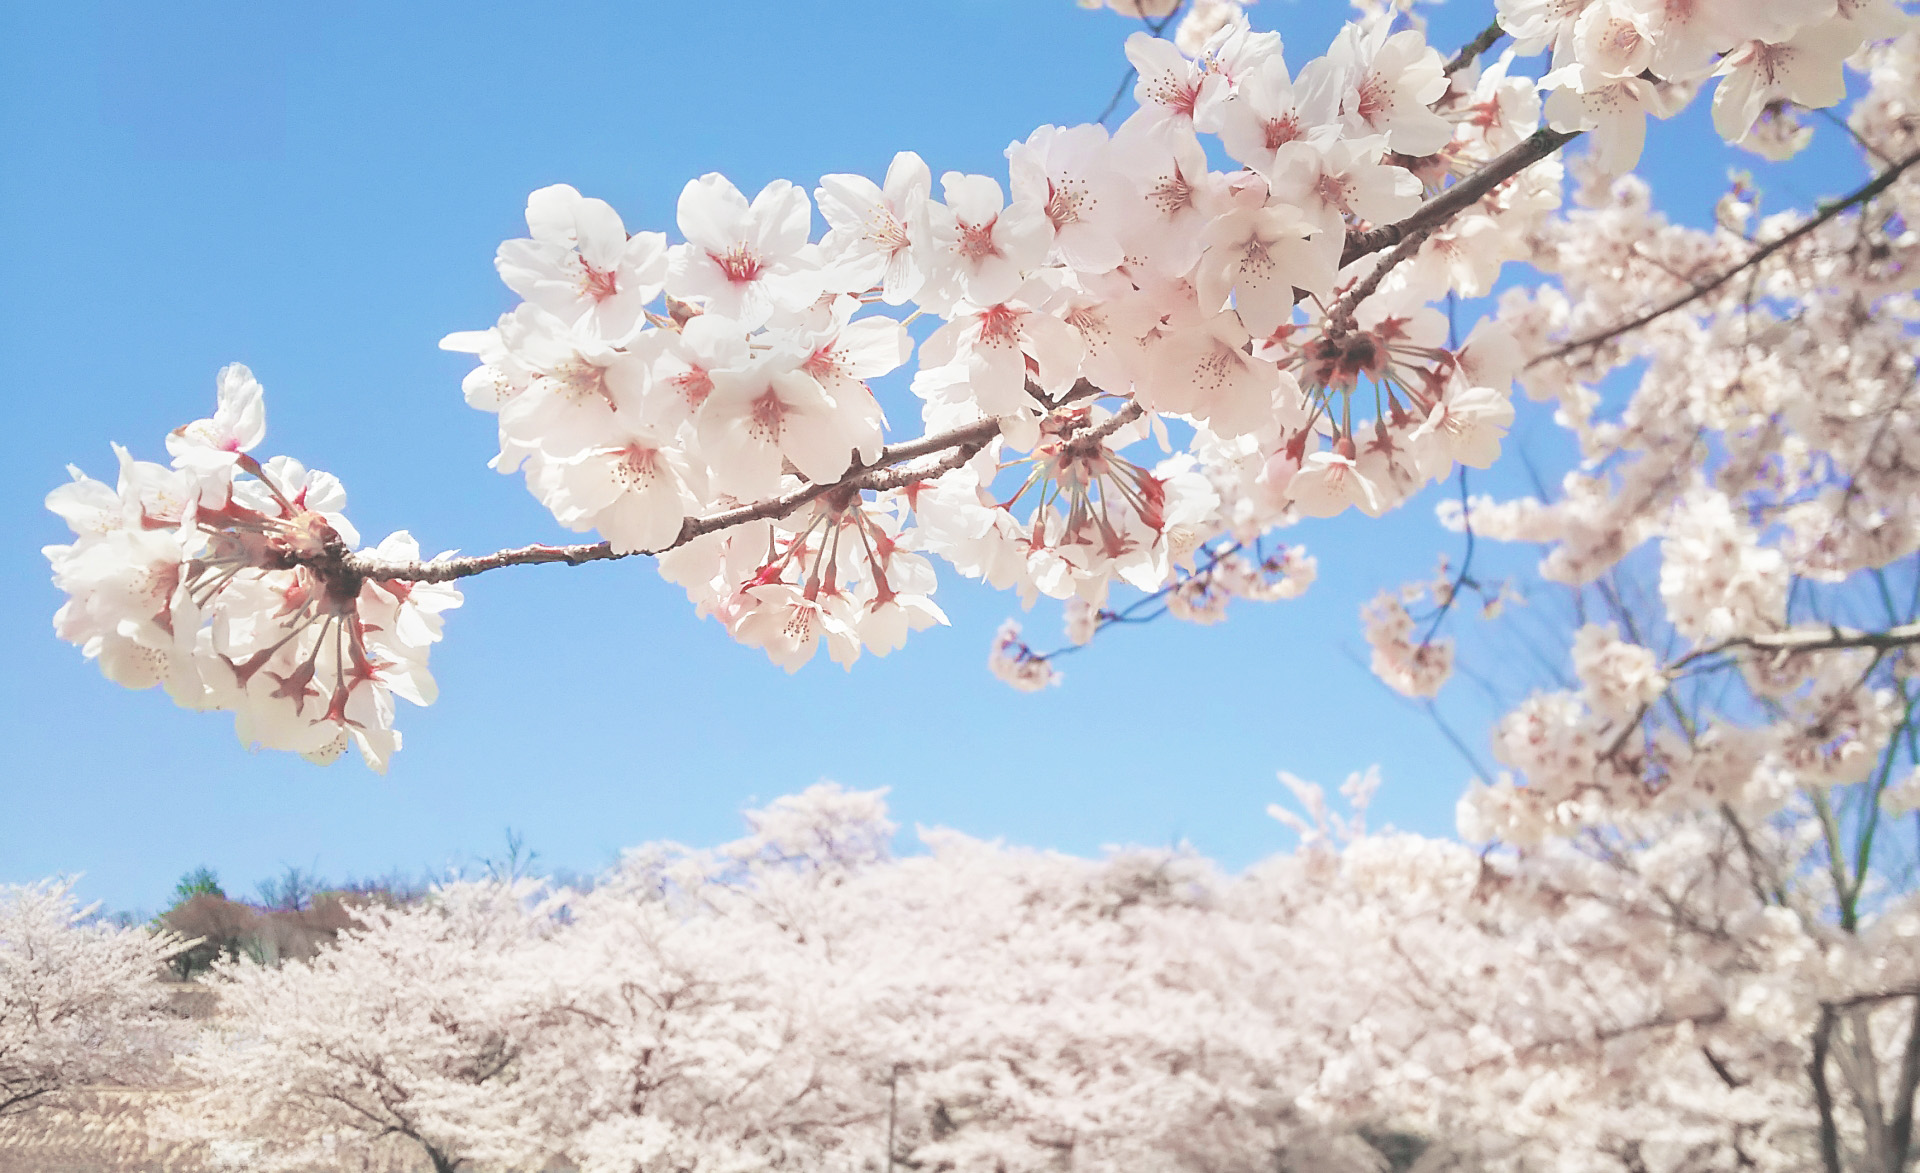
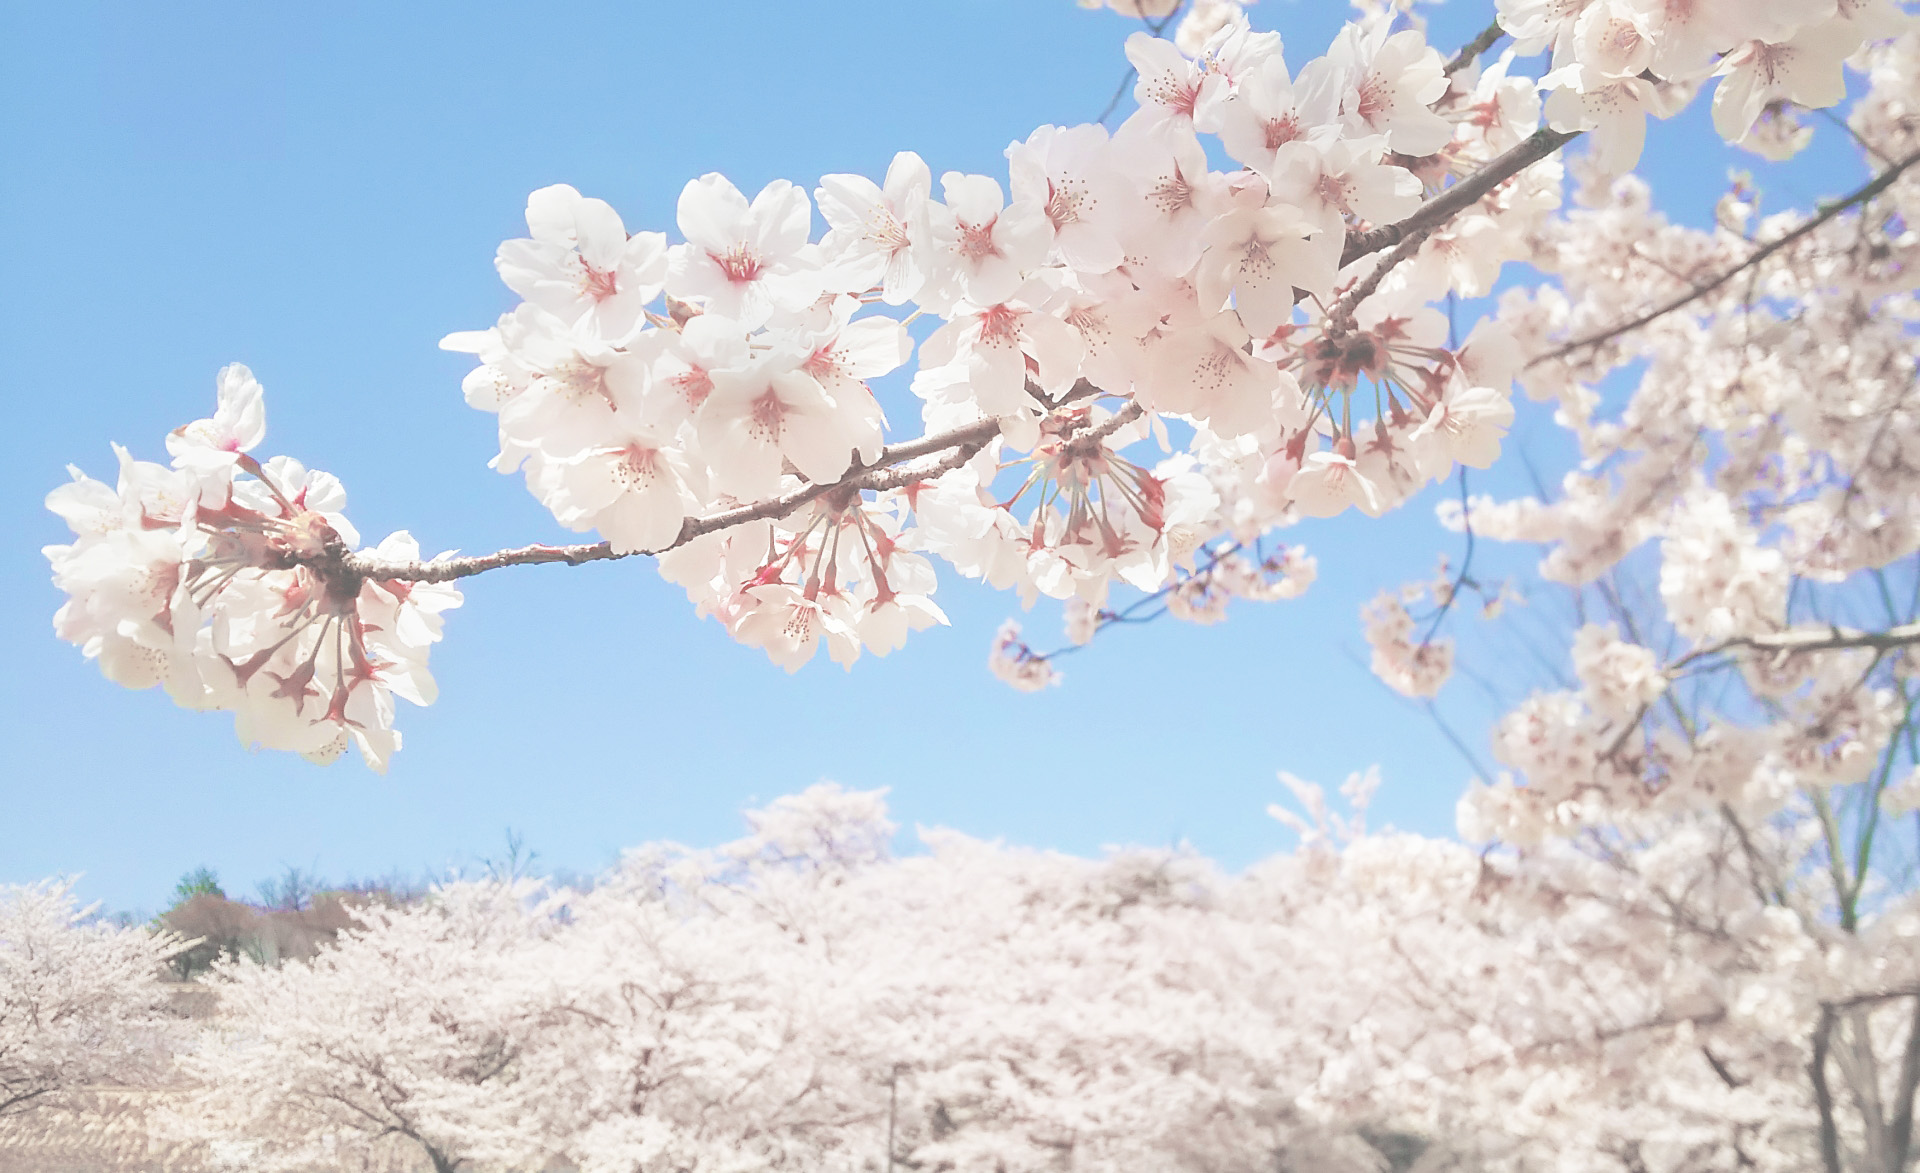
Change BG image

diff --git a/styles.css b/styles.css
@@ -57,7 +57,7 @@ a:hover {
 
 header {
   text-align: center;
-  background: url('images/portland.jpg') no-repeat top center ;
+  background: url('images/background.jpg') no-repeat top center ;
   background-size: cover;
   overflow: hidden;
   padding-top: 60px;
@@ -65,6 +65,7 @@ header {
 header {
   line-height: 1.5;
 }
+
 header .profile-image {
   margin-top: 50px;
   width: 150px;

diff --git a/index.html b/index.html
@@ -17,7 +17,7 @@
     </div>
 
     <header>
-      <img src="images/me.png" alt="Drawing of Yoko Iseki" class="profile-image">
+      <img src="images/me.jpg" alt="image of Green tea cappuccino" class="profile-image">
       <h1 class="tag name">Hello, I’m Yoko.</h1>
       <p class="tag location">My home is Portland, Oregon.</p>
     </header>
